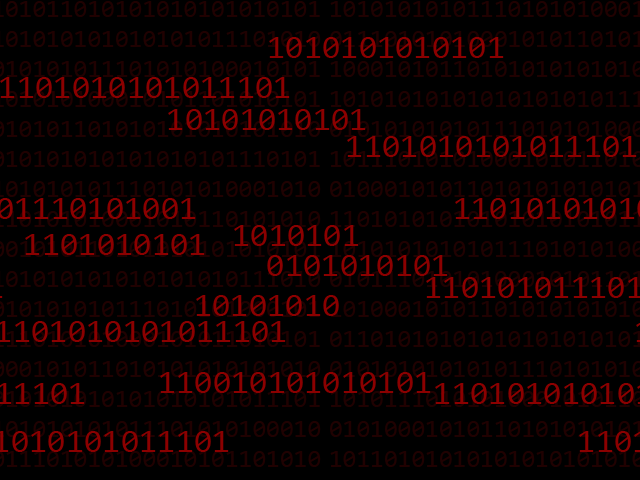
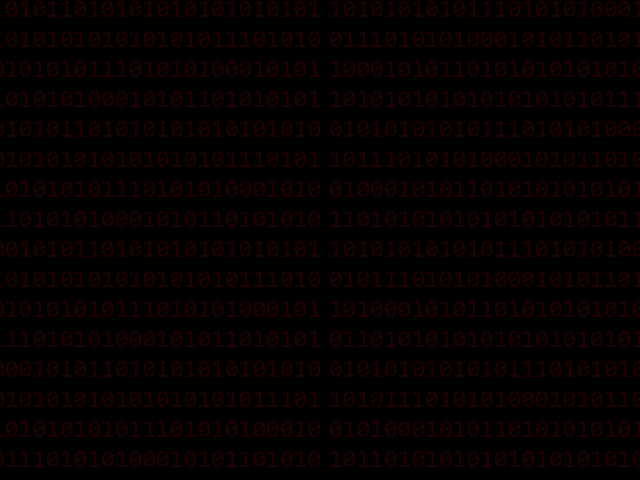
Custom menu UI added.

diff --git a/src/scenes/Play.js b/src/scenes/Play.js
@@ -13,6 +13,10 @@ class Play extends Phaser.Scene {
         this.load.image('enemyfile', 'assets/enemyfile.png');
         this.load.spritesheet('explosion', 'assets/explosion.png', {frameWidth: 64, frameHeight: 32, startFrame: 0, endFrame: 9});
         this.load.image('placeholder', 'assets/placeholder.png');
+        this.load.image('binaryA', 'assets/binaryA.png');
+        this.load.image('binaryB', 'assets/binaryB.png');
+        this.load.image('popup', 'assets/popup.png');
+        this.load.image('gameOver', 'assets/gameOver.png');
 
         this.load.audio('bgmusic', ['assets/bgmusic.wav']);//Background music
         this.load.audio('backgroundTyping', ['assets/backgroundTyping.wav']);
@@ -24,6 +28,9 @@ class Play extends Phaser.Scene {
     create(){
         //Background sprite
         this.background = this.add.tileSprite(0,0,640,480, 'background').setOrigin(0,0);
+        //Binary sprite
+        this.binaryA = this.add.tileSprite(0,0,640,480, 'binaryA').setOrigin(0,0);
+        this.binaryB = this.add.tileSprite(0,0,640,480, 'binaryB').setOrigin(0,0);
         //Endgoal sprite
         this.endgoal = this.add.tileSprite(0,0,32,480, 'endgoal').setOrigin(0,0);
         //Rocket sprite
@@ -37,7 +44,7 @@ class Play extends Phaser.Scene {
         this.backgroundMusic = this.sound.add('bgmusic');
         var musicConfig = {
             mute: false,
-            volume: .5,
+            volume: .15,
             rate: 1,
             detune: 0,
             seek: 0,
@@ -50,7 +57,7 @@ class Play extends Phaser.Scene {
         this.bgtyping = this.sound.add('backgroundTyping');
         var typingConfig = {
             mute: false,
-            volume: .75,
+            volume: .45,
             rate: 1,
             detune: 0,
             seek: 0,
@@ -73,7 +80,7 @@ class Play extends Phaser.Scene {
         //animation config
         this.anims.create({
             key: 'explode',
-            frames: this.anims.generateFrameNumbers('explosion', { start: 0, end: 9, first: 0}),
+            frames: this.anims.generateFrameNumbers('explosion', { start: 0, end: 3, first: 0}),
             frameRate: 10
         });
 
@@ -81,14 +88,14 @@ class Play extends Phaser.Scene {
         this.p1Score = 0;
 
         //Score Background
-        this.add.rectangle(0, borderUISize + borderPadding, game.config.width, borderUISize * 2, 0xFFFFFF).setOrigin(0,0);
+        this.add.rectangle(0, borderUISize + borderPadding, game.config.width, borderUISize * 2, 0xAAAAAA).setOrigin(0,0);
 
         // display score
         let scoreConfig = {
         fontFamily: 'Consolas',
         fontSize: '28px',
-        backgroundColor: '#000000',
-        color: '#FF0000',
+        backgroundColor: '#CCCCCC',
+        color: '#000000',
         align: 'center',
         padding: {
              top: 5,
@@ -106,13 +113,15 @@ class Play extends Phaser.Scene {
         //Game timer
         scoreConfig.fixedWidth = 0;
         this.clock = this.time.delayedCall(game.settings.gameTimer, () => {
-            //this.placeholder = this.add.tileSprite(0,0,640,480, 'placeholder').setOrigin(0,0);//EndGame Screen
+            this.gameOver = this.add.tileSprite(0,0,640,480, 'gameOver').setOrigin(0,0);//EndGame Screen
+            this.scoreCenter = this.add.text(game.config.width/2, game.config.height/2+50, this.p1Score, scoreConfig);
             this.backgroundMusic.stop(musicConfig);//Ends music loop on GAME OVER
             this.bgtyping.stop(typingConfig);//Ends typing loop
-            this.add.text(game.config.width/2, game.config.height/2, 'GAME OVER', scoreConfig).setOrigin(0.5);
-            this.add.text(game.config.width/2, game.config.height/2 + 64, '(R) to Restart', scoreConfig).setOrigin(0.5);
+            //this.add.text(game.config.width/2, game.config.height/2, 'GAME OVER', scoreConfig).setOrigin(0.5);
+            //this.add.text(game.config.width/2, game.config.height/2 + 64, '(R) to Restart', scoreConfig).setOrigin(0.5);
             this.gameOver = true;
         }, null, this);
+
 
         
         //Game borders. I have no idea but these cover gaps in my 
@@ -130,7 +139,11 @@ class Play extends Phaser.Scene {
             this.scene.restart();
         }
 
-        this.background.tilePositionX +=5;
+        //Background Scroll
+        this.background.tilePositionX +=4;
+        this.binaryA.tilePositionX +=5;
+        this.binaryB.tilePositionX +=6;
+
         if (!this.gameOver) {               
             this.p1Rocket.update();         // update rocket sprite
             this.ship01.update();           // update spaceships (x3)

diff --git a/src/scenes/Menu.js b/src/scenes/Menu.js
@@ -5,31 +5,15 @@ class Menu extends Phaser.Scene{
 
     preload() {
         // load audio
+        this.load.image('popup', 'assets/popup.png');
         this.load.audio('sfx_select', './assets/singleClick.wav');
         this.load.audio('sfx_explosion', './assets/doubleClick.wav');
         this.load.audio('sfx_rocket', './assets/singleClick.wav');
     }
 
     create(){
-        let menuConfig = {
-            fontFamily: 'Consolas',
-            fontSize: '28px',
-            backgroundColor: '#1f0000',
-            color: '#ff0000',
-            align: 'right',
-            padding: {
-                 top: 5,
-                 bottom: 5,
-                },
-            fixedWidth: 0
-        }
-
-        this.add.text(game.config.width/2, game.config.height/2 - borderUISize - borderPadding, 'FIREWALL PATROL', menuConfig).setOrigin(0.5);
-        this.add.text(game.config.width/2, game.config.height/2, 'Use ← → arrows to move and F to fire', menuConfig).setOrigin(0.5);
-        menuConfig.backgroundColor = '#1f0000';
-        menuConfig.color = '#ff0000';
-        this.add.text(game.config.width/2, game.config.height/2 + borderUISize + borderPadding, 'Press ← for Novice or → for Expert', menuConfig).setOrigin(0.5);
-            
+        this.add.rectangle(0, 0, 640, 480, 0x008080).setOrigin(0 ,0);
+        this.popup = this.add.tileSprite(0,0,640,480, 'popup').setOrigin(0,0);
         keyLEFT = this.input.keyboard.addKey(Phaser.Input.Keyboard.KeyCodes.LEFT);
         keyRIGHT = this.input.keyboard.addKey(Phaser.Input.Keyboard.KeyCodes.RIGHT);
     }
